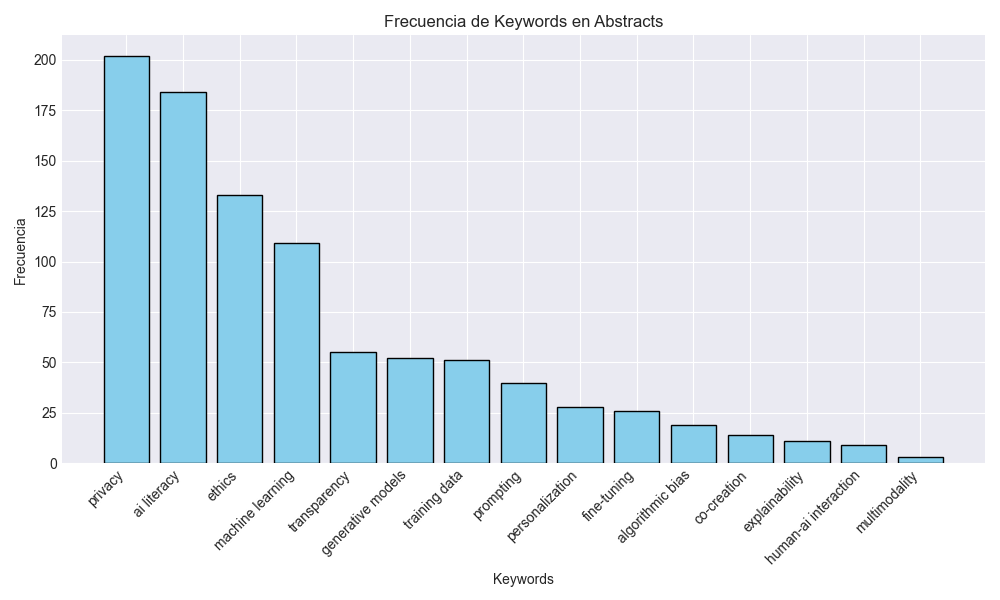
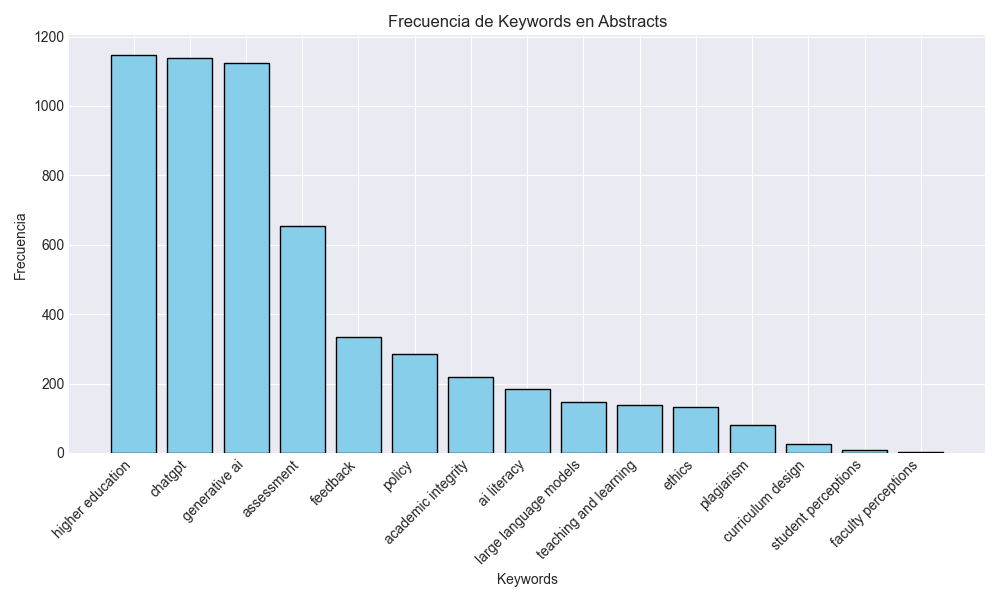
feat: updated 'keywords_analizer' for more significative analisis

diff --git a/utils/keywords_analizer.py b/utils/keywords_analizer.py
@@ -13,10 +13,9 @@ para las cuales se van a calcular la frecuencia de aparición en los abstracts d
 en 'meged.bib'
 """
 keywords = [
-    "generative models", "prompting", "machine learning", "multimodality",
-    "fine-tuning", "training data", "algorithmic bias", "explainability",
-    "transparency", "ethics", "privacy", "personalization",
-    "human-ai interaction", "ai literacy", "co-creation"
+    "higher education", "generative ai", "large language models", "chatgpt", "teaching and learning",
+    "assessment", "feedback", "academic integrity", "plagiarism", "ethics",
+    "student perceptions", "faculty perceptions", "ai literacy", "curriculum design", "policy"
 ]
 
 """"
@@ -50,24 +49,155 @@ def count_keyword_frequencies(abstracts, keywords):
 Función para obtener los 15 términos pricnipales dentro de los abstracts 
 """
 def extract_top_terms(abstracts, top_n=15):
-    # Convierte los abstracts (que vienen en un diccionario {id: texto}) en una lista de solo textos
     texts = list(abstracts.values())
 
-    # Crea un vectorizador TF-IDF (Term Frequency – Inverse Document Frequency)
-    #    - stop_words="english": ignora palabras muy comunes en inglés (the, and, of, etc.)
-    #    - ngram_range=(1,3): considera unigramas (1 palabra), bigramas (2 palabras) y trigramas (3 palabras)
-    vec = TfidfVectorizer(stop_words="english", ngram_range=(1,3))
+    # --- Stopwords extendidas para abstracts académicos ---
+    extra_stopwords = {
+        "use", "used", "using", "based", "show", "shows", "shown", "may", "can", "could", "would",
+        "also", "however", "therefore", "thus", "within", "across", "among", "via",
+        "paper", "study", "research", "results", "result", "method", "methods", "approach", "propose",
+        "proposed", "analysis", "analyses", "data", "dataset", "datasets",
+        "framework", "system", "systems", "tool", "tools", "evaluation", "evaluated",
+        "findings", "conclusion", "conclusions", "discussion", "literature", "review",
+        "experiment", "experiments", "experimental"
+    }
 
-    tfidf = vec.fit_transform(texts) # Transforma los textos en una matriz TF-IDF
+    vec = TfidfVectorizer(
+        stop_words="english",
+        ngram_range=(1,3),
+        lowercase=True,
+        token_pattern=r"(?u)\b[a-zA-Z][a-zA-Z\-]{2,}\b"
+    )
 
-    scores = np.asarray(tfidf.sum(axis=0)).ravel()  # Calcula la suma de los pesos TF-IDF de cada término en todos los documentos
+    tfidf = vec.fit_transform(texts)
+    scores = np.asarray(tfidf.sum(axis=0)).ravel()
+    terms = vec.get_feature_names_out()
 
-    terms = vec.get_feature_names_out() # Obtiene la lista de términos correspondientes a las columnas de la matriz TF-IDF
+    # 1) limpieza básica
+    raw = []
+    for term, score in zip(terms, scores):
+        t = term.strip().lower()
+        t = re.sub(r"\s+", " ", t)
+        t = t.replace("–", "-").replace("—", "-")
+        if t in extra_stopwords:
+            continue
+        if all(w in extra_stopwords for w in t.split()):
+            continue
+        raw.append((t, float(score)))
 
-    # Empareja cada término con su puntuación y los ordena de mayor a menor
-    ranking = sorted(zip(terms, scores), key=lambda x: x[1], reverse=True)
+    # 2) normalización/canonización: colapsar variantes hacia un término "canónico"
+    # (ajustado según el dominio Higher Education + GAI) 
+    # Básicamente análisa sinonimos de la misma palabra para no icluir varias veces el mismo término y hacer un análisis más significativo
+    canonical_rules = [
+        # ---- GAI / LLM / ChatGPT ----
+        (r"\bgai\b", "generative artificial intelligence"),
+        (r"\bgenai\b", "generative artificial intelligence"),
+        (r"\bgenerative ai\b", "generative artificial intelligence"),
+        (r"\bgenerative-ai\b", "generative artificial intelligence"),
+        (r"\bgenerative artificial\b", "generative artificial intelligence"),
+        (r"\bgenerative artificial intelligence\b", "generative artificial intelligence"),
+        (r"\blarge language model(s)?\b", "large language models"),
+        (r"\blarge-language-model(s)?\b", "large language models"),
+        (r"\bllm(s)?\b", "large language models"),
+        (r"\bchat\s?gpt\b", "chatgpt"),
+        (r"\bchat-gpt\b", "chatgpt"),
 
-    return ranking[:top_n]
+        # ---- Higher Education ----
+        (r"\bhigher education\b", "higher education"),
+        (r"\buniversity\b", "higher education"),
+        (r"\bundergraduate\b", "undergraduate education"),
+        (r"\bpostgraduate\b|\bgraduate\b", "postgraduate education"),
+
+        # ---- Academic Integrity ----
+        (r"\bacademic integrity\b", "academic integrity"),
+        (r"\bplagiarism\b|\bcheating\b", "academic integrity"),
+
+        # ---- Teaching / Learning ----
+        (r"\bteaching\b|\binstruction\b", "teaching"),
+        (r"\blearning\b|\bstudent learning\b", "learning"),
+        (r"\bassessment\b|\bevaluation\b", "assessment"),
+        (r"\bfeedback\b", "feedback"),
+    ]
+
+    def canonize(t: str) -> str:
+        out = t
+        for pat, rep in canonical_rules:
+            out = re.sub(pat, rep, out)
+        return out.strip()
+
+    # 3) agregar scores por término canónico (suma de TF-IDF)
+    canon_scores = {}
+    for t, s in raw:
+        ct = canonize(t)
+        if ct in {"generative", "artificial", "intelligence"}:
+            continue
+        canon_scores[ct] = canon_scores.get(ct, 0.0) + s
+
+    # 4) ranking por score canónico
+    ranking = sorted(canon_scores.items(), key=lambda x: x[1], reverse=True)
+
+    # Texto consolidado (normalizado parecido a como limpiaste términos)
+    text_all = " ".join(abstracts.values()).lower()
+    text_all = text_all.replace("–", "-").replace("—", "-")
+    text_all = re.sub(r"\s+", " ", text_all)
+
+    # Alias para contar frecuencia por concepto (canónico)
+    alias_map = {
+        "generative artificial intelligence": [
+            "generative artificial intelligence", "generative ai", "generative-ai", "genai", "gai"
+        ],
+        "large language models": [
+            "large language models", "large language model", "large-language-models", "large-language-model",
+            "llm", "llms"
+        ],
+        "chatgpt": ["chatgpt", "chat gpt", "chat-gpt"]
+    }
+
+    def term_frequency(canonical_term: str) -> int:
+        """
+        Cuenta ocurrencias del término canónico o sus aliases
+        usando regex tolerante a espacios/guiones.
+        """
+        targets = alias_map.get(canonical_term, [canonical_term])
+        total = 0
+        for target in targets:
+            t = target.lower().strip()
+            t_regex = re.escape(t).replace(r"\ ", r"[\s\-]+")
+            pattern = rf"\b{t_regex}\b"
+            total += len(re.findall(pattern, text_all))
+        return total
+
+    min_freq = 1
+
+    # 5) selección "inteligente" + filtro freq>0
+    selected = []
+    selected_terms = []
+
+    def is_subphrase(term: str, chosen: list[str]) -> bool:
+        for c in chosen:
+            if term == c:
+                continue
+            if term in c:
+                return True
+        return False
+
+    # preferir más palabras si score es similar
+    ranking = sorted(ranking, key=lambda x: (x[1], len(x[0].split())), reverse=True)
+
+    for term, score in ranking:
+        if is_subphrase(term, selected_terms):
+            continue
+
+        if term_frequency(term) < min_freq:
+            continue
+
+        selected.append((term, score))
+        selected_terms.append(term)
+
+        if len(selected) >= top_n:
+            break
+
+    return selected
 
 """"
 Función para calcular la precisión en el rango [-1, 1] de los nuevos términos
